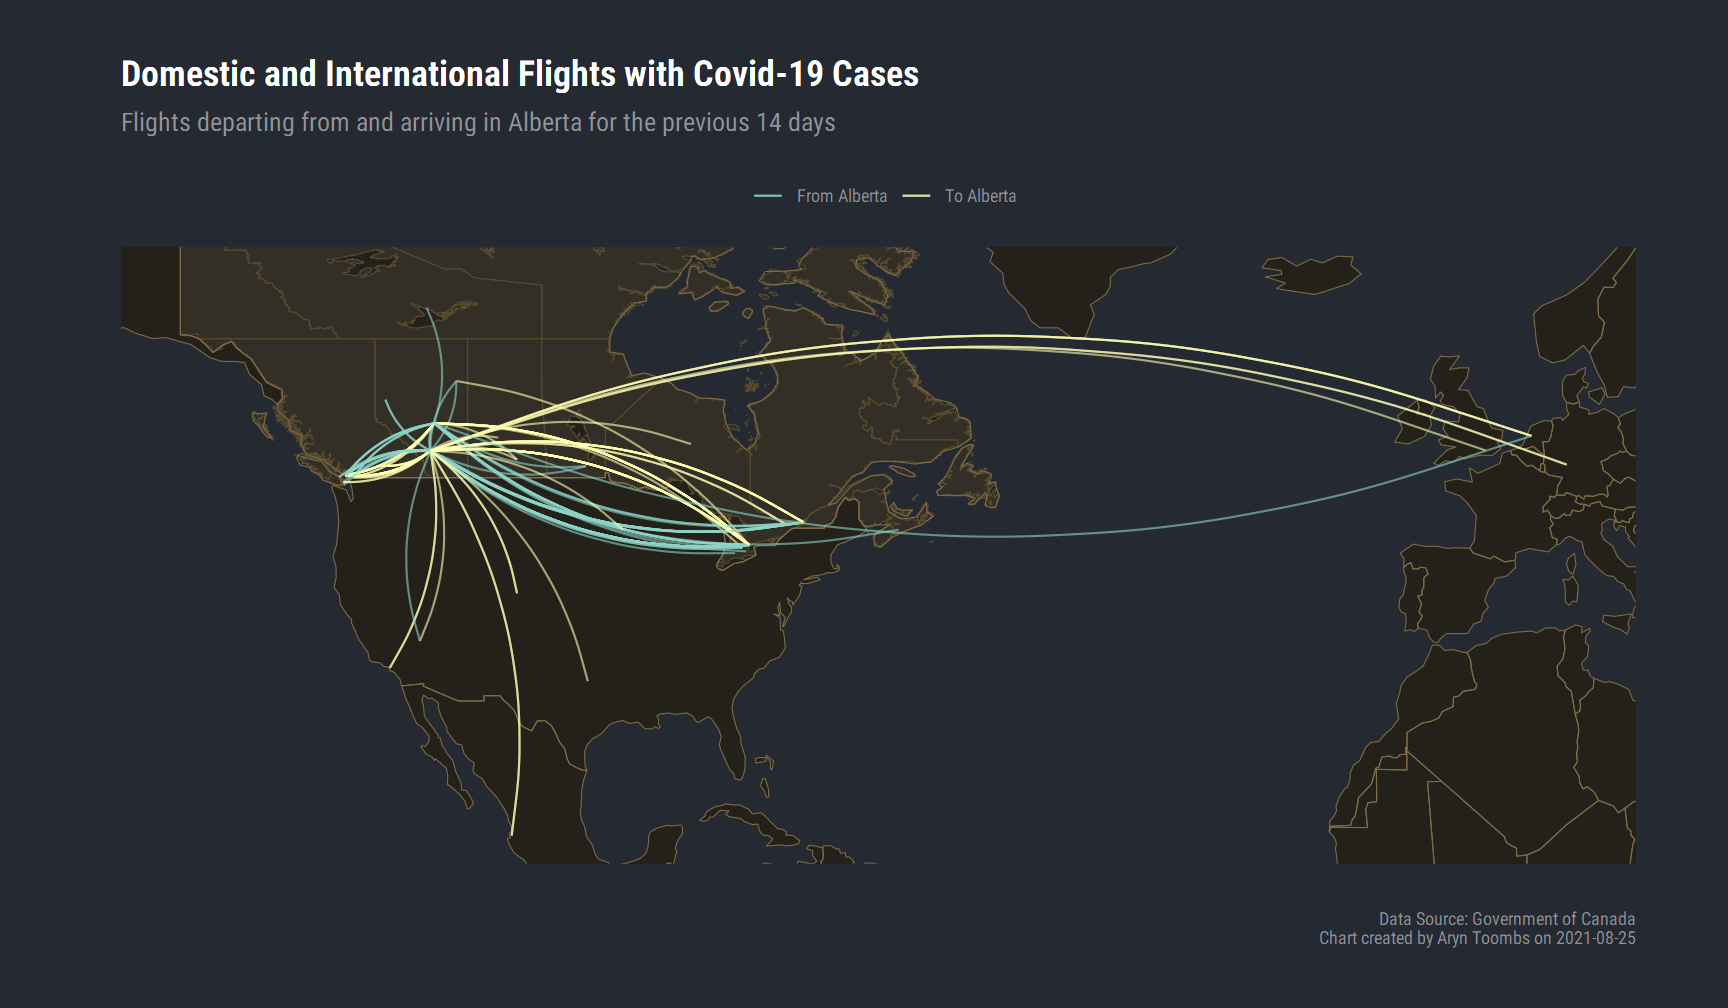
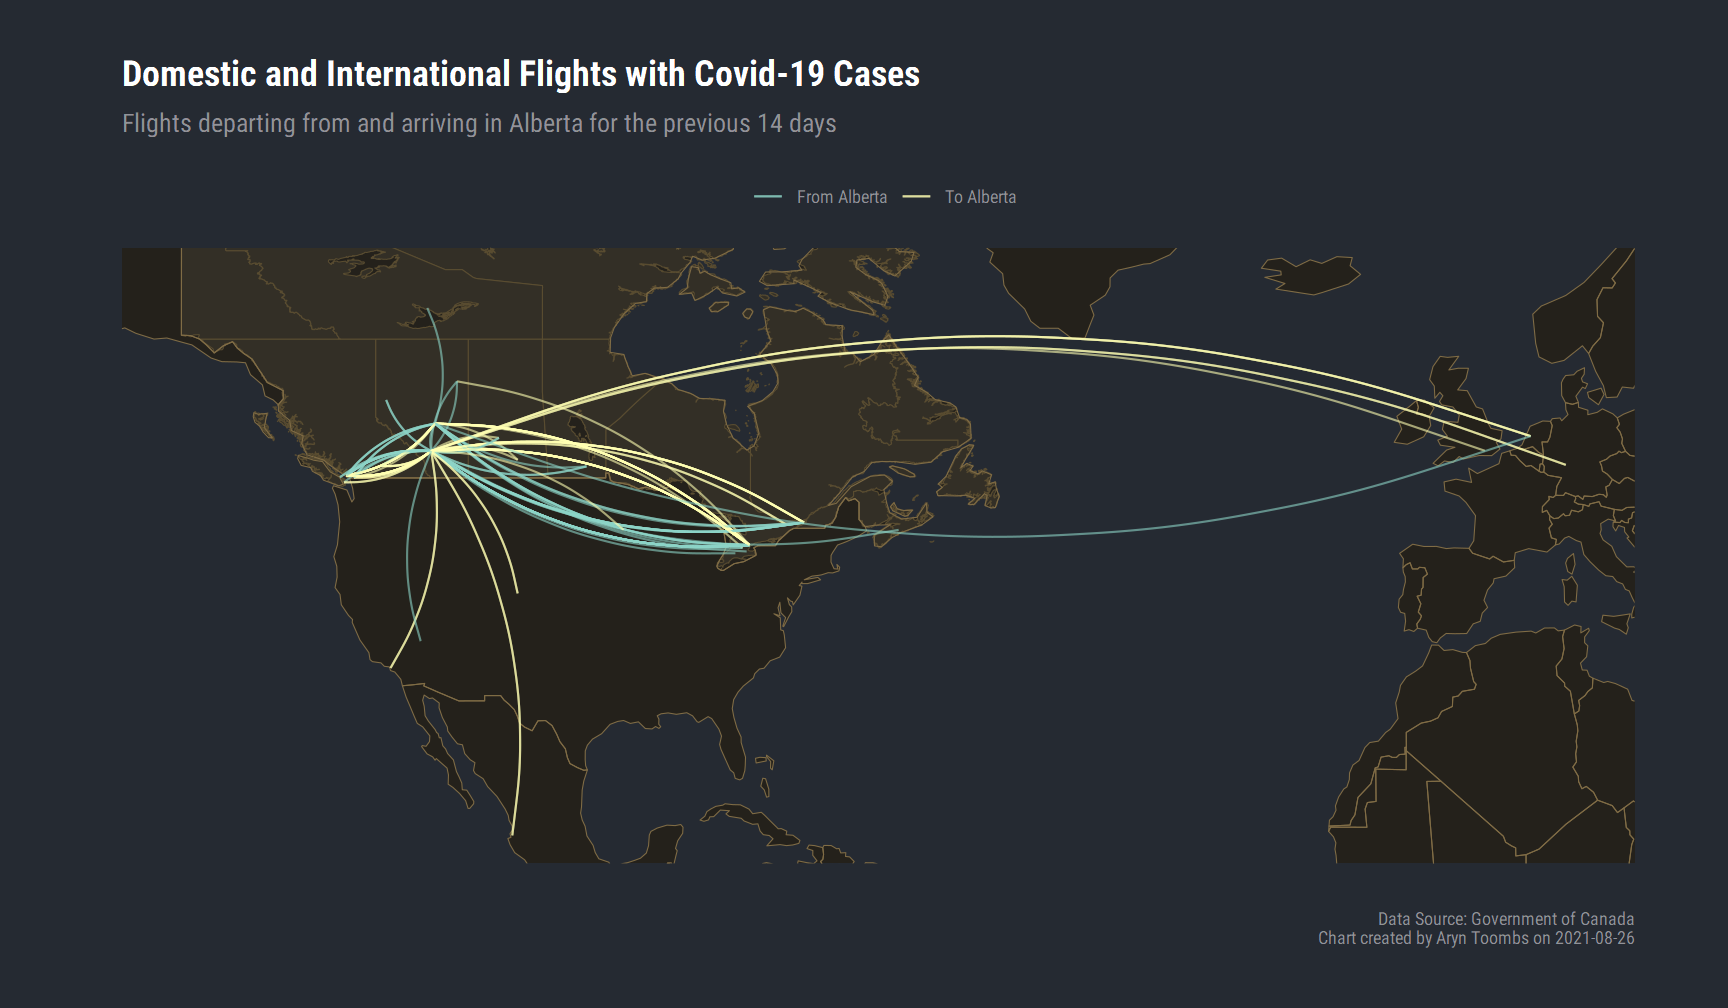
web

diff --git a/index.html b/index.html
@@ -305,7 +305,7 @@
         Domestic Flights from Alberta
       </div>
       <div class="row box-bottom justify-content-center">
-        <h4>76</h4>
+        <h4>70</h4>
       </div>
     </div>
 
@@ -314,7 +314,7 @@
         International Flights to Alberta
       </div>
       <div class="row box-bottom justify-content-center">
-        <h4>16</h4>
+        <h4>14</h4>
       </div>
     </div>
 
